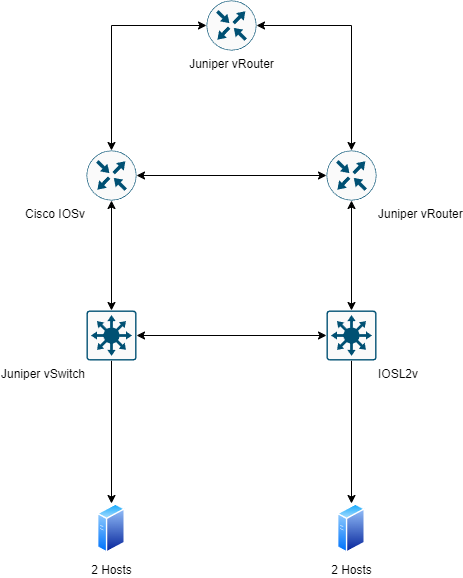
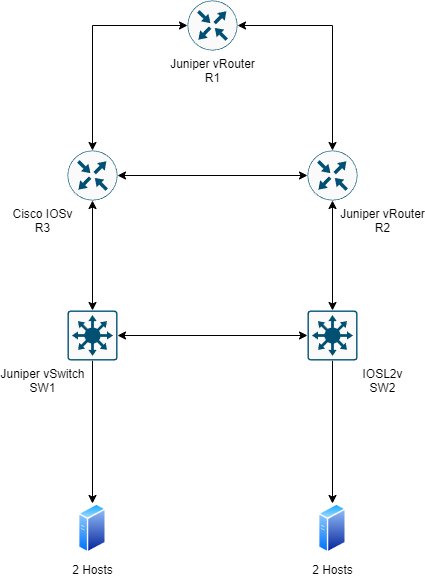
Adding lab description

Changed region(s): [[0.6729, 0.0623, 1.0, 0.9965], [0.0, 0.0311, 0.3059, 0.9965], [0.3976, 0.0, 0.6118, 0.1557]]

diff --git a/cisco-juniper-ospf/lab-challenge.md b/cisco-juniper-ospf/lab-challenge.md
@@ -1,3 +1,42 @@
 # Cisco and Juniper - OSPF
 
+## Diagram
 <img src="./cisco-juniper-ospf-diagram.png" alt="diagram"/>
+
+## Topology description
+
+### Hosts subnets
+
+Topology supports four hosts subnets:
+
+- VLAN 10 - 10.10.0.0/24
+- VLAN 20 - 10.20.0.0/24
+- VLAN 30 - 10.30.0.0/24
+- VLAN 40 - 10.40.0.0/24
+
+### Loopbacks
+Each router has loopback that matches number, as following:
+- R1 = 1.1.1.1/24
+- R2 = 2.2.2.2/24
+- R3 = 3.3.3.3/24
+
+These loopbacks must be advertise into OSPF.
+For example in VLAN 10, virtual IP is 10.10.0.1. R2 has 10.10.0.2 and R3 has 10.10.0.3. 
+
+### OSPF
+OSPF is configured the three routers. R1 is ABR with backbone area, R2 and R1 belong to area 25
+
+### VRRP
+Each router has 4 subinterfaces on each host vlan. First IP corresponds to the virtual VRRP ip, R2 has second IP on the subnet and R3 has third IP on the subnet
+
+### DCHP
+R1 acts as DHCP server for the four vlans. R1 and R2 must have DCHP relay feature configured.
+Default route must be included on the DHCP information
+
+### LACP
+Connection between SW1 and SW2 must be a two interfaces connection bonded in a LACP aggregation link
+
+## Validating procedure
+1. Hosts must be able to ping loopbacks of the routers
+2. Uplinks of switches must be disabled to test redundancy
+3. Switches port-channel must be disabled to test redundancy
